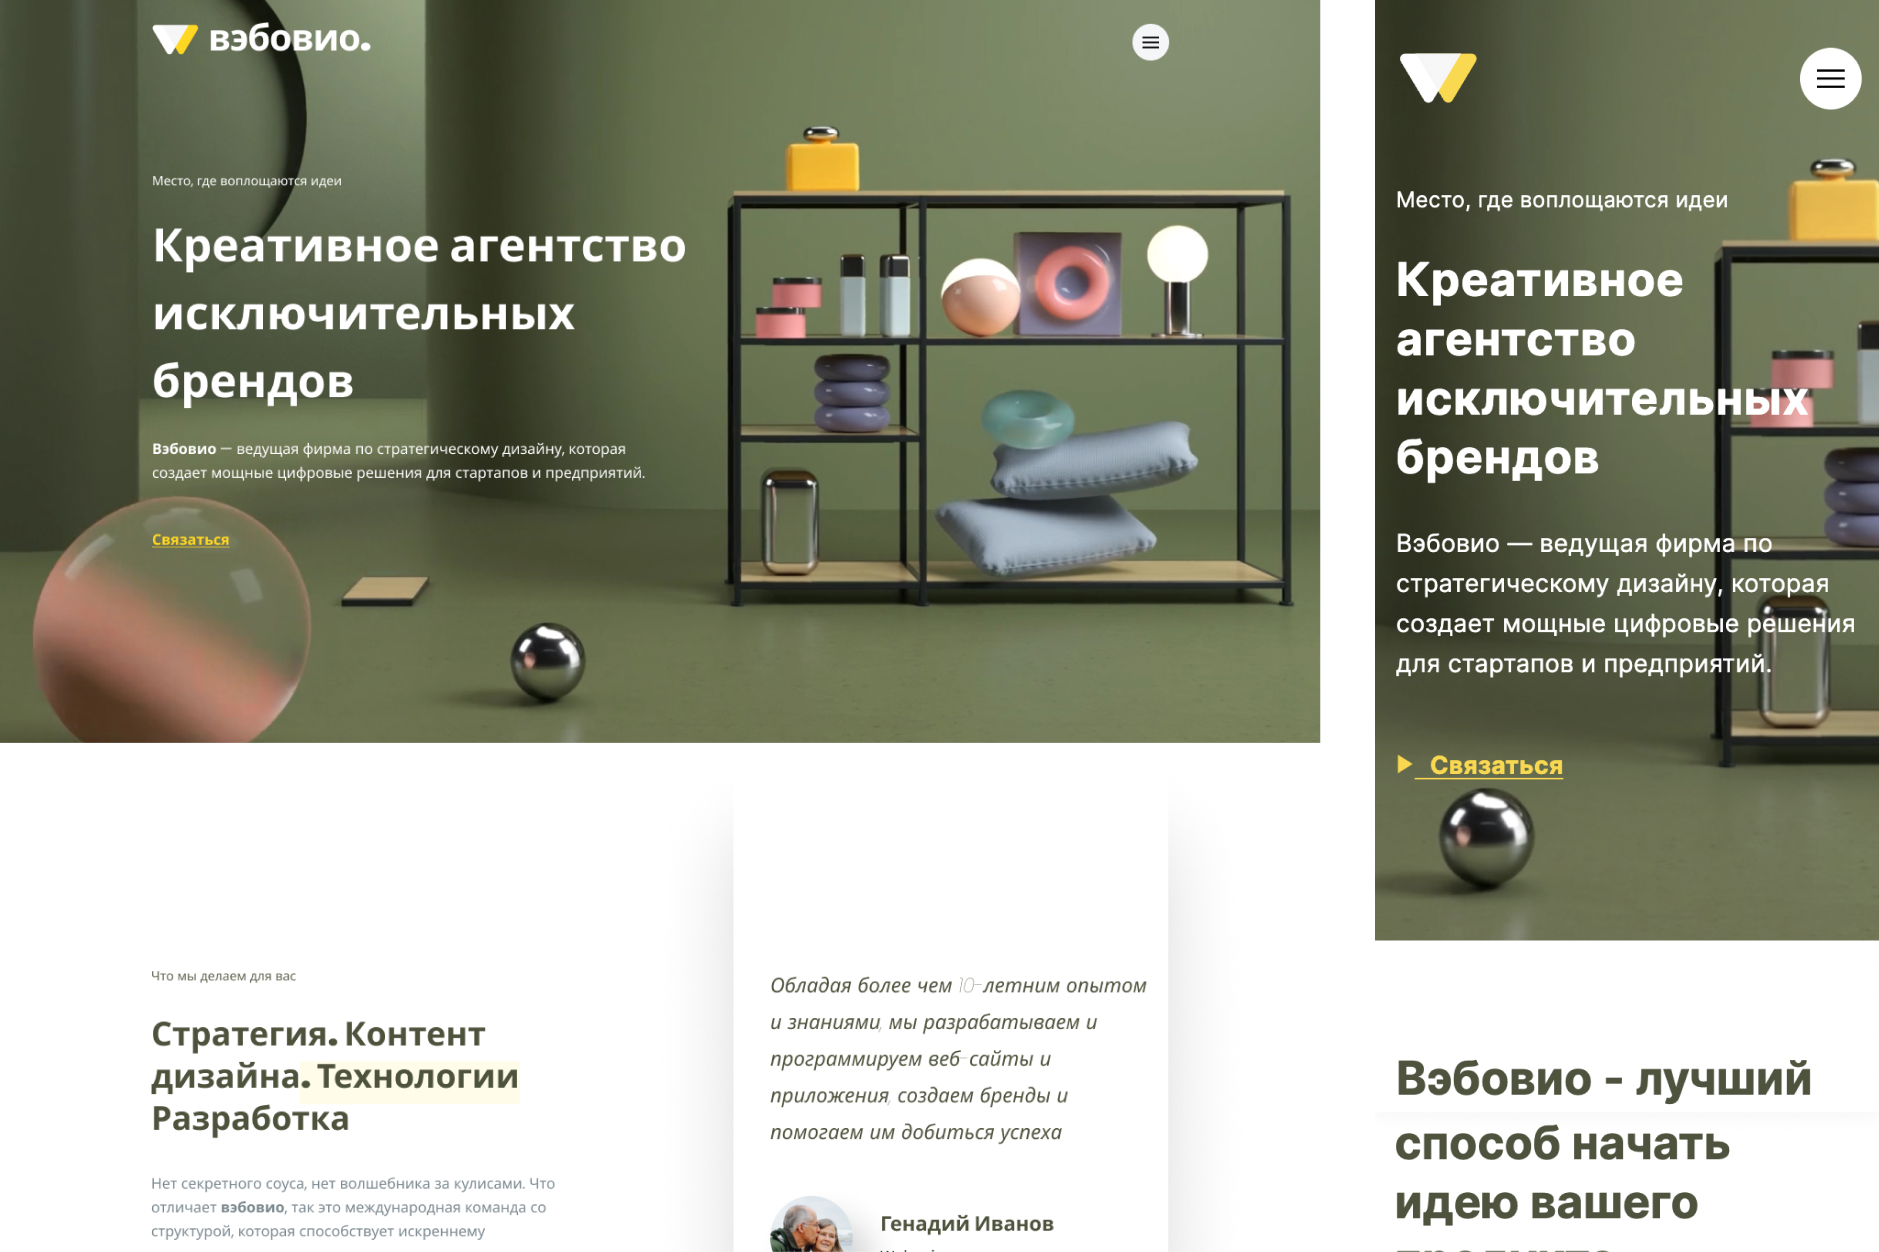
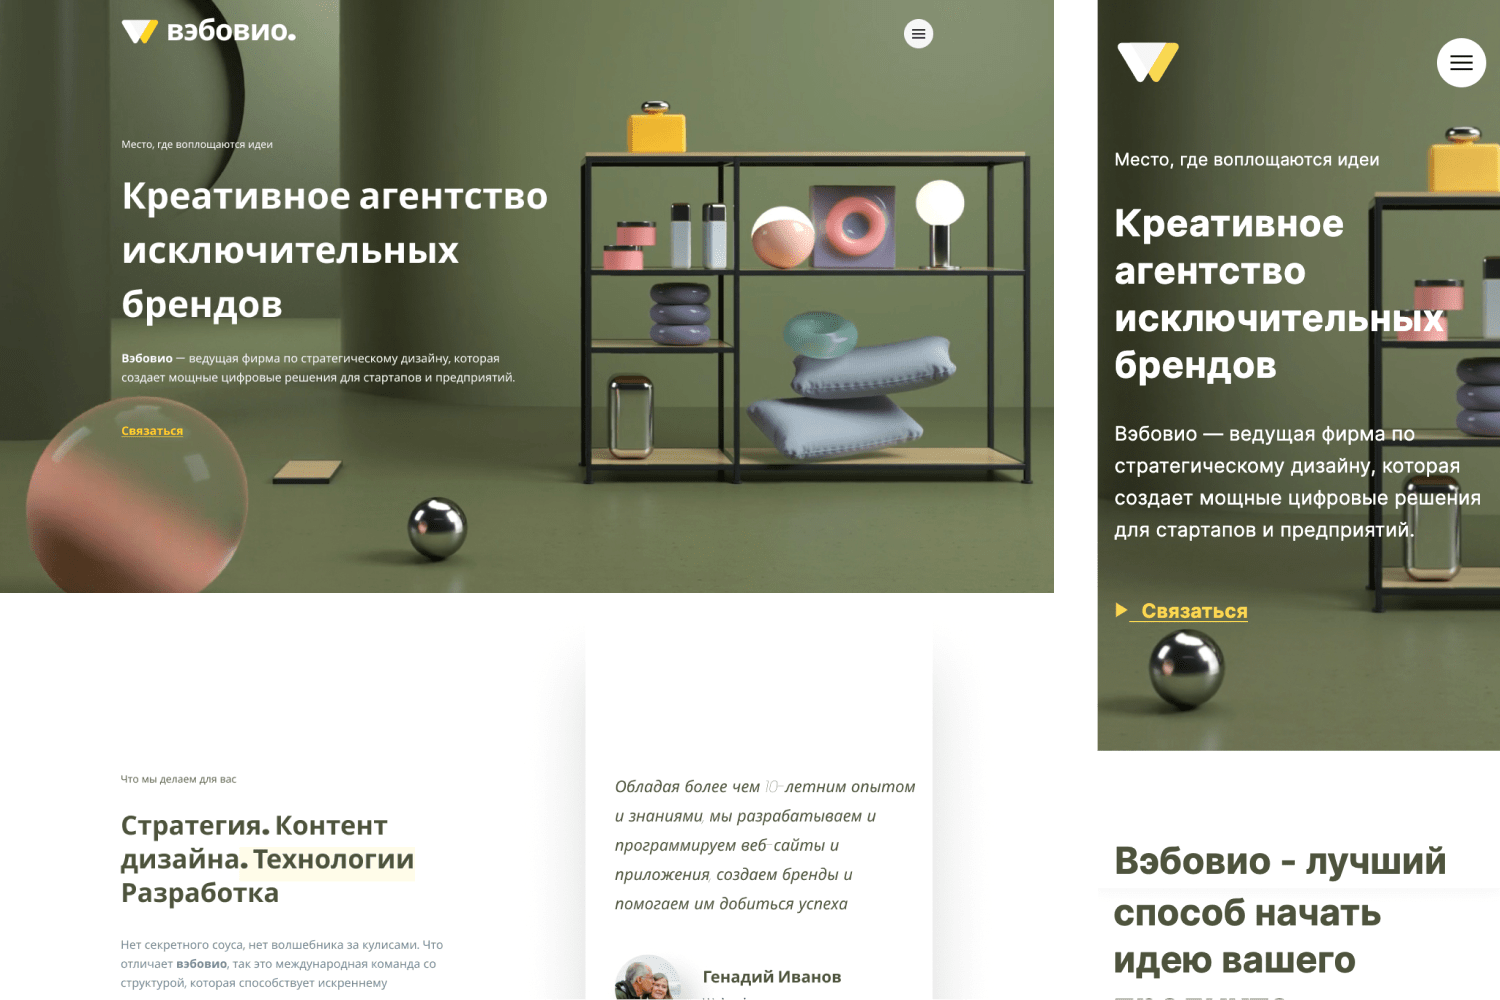
feat: add background

diff --git a/index.html b/index.html
@@ -44,9 +44,7 @@
                             <ul class="menu__list">
 
                                 <li>
-                                    <a class="menu__link" data-goto=".page" href="#">
-                                        Главная
-                                    </a>
+                                    <a class="menu__link" data-goto=".page" href="#">Главная</a>
                                 </li>
 
                                 <li>
@@ -56,7 +54,9 @@
                                 <li><a class="menu__link" data-goto=".three" href="#">Стоимость</a>
                                     <span class="menu__arrow"></span>
                                     <ul class="menu__sub-list">
-                                        <li><a class="menu__sub-link" href="#">Узнать стоимость</a></li>
+                                        <li><a class="menu__sub-link" href="https://t.me/+h35Quva-_Cw4ZDJi"
+                                                target="_blank">Узнать
+                                                стоимость</a></li>
                                     </ul>
                                 </li>
 
@@ -99,9 +99,9 @@
                                 Русский
                             </div>
 
-                            <!-- <div class="language__arrow">
+                            <div class="language__arrow">
                                 <img src="./assets/img/header/language/language_arrow.svg" alt="language_arrow">
-                            </div> -->
+                            </div>
                         </a>
 
                     </div>
@@ -150,7 +150,7 @@
                         <div class="main-block__right">
                             <a href="https://sasharozhkov.github.io/landingpage-webovio" class="right__portfolio"
                                 target="_blank">
-                                <img src="./assets/img/page/cover.png" alt="background">
+                                <img src="./assets/img/page/cover.png" alt="portfolio">
                             </a>
                         </div>
 
@@ -159,7 +159,15 @@
                 </div>
 
                 <div class="main-block__image _ibg">
-                    <img src="./assets/img/page/background.jpg" alt="background">
+                    <img src="./assets/img/page/background/background_desktop.jpg" alt="background">
+                </div>
+
+                <div class="main-block__image_tablet _ibg">
+                    <img src="./assets/img/page/background/background_tablet.jpg" alt="background">
+                </div>
+
+                <div class="main-block__image_mobile _ibg">
+                    <img src="./assets/img/page/background/background_mobile.jpg" alt="background">
                 </div>
 
             </section>

diff --git a/assets/css/style.css b/assets/css/style.css
@@ -268,7 +268,7 @@ body._lock {
   color: var(--color-0);
   font-size: 18px;
 }
-.menu__link :hover {
+.menu__link:hover {
   text-decoration: none;
   color: var(--color-7);
 }
@@ -371,6 +371,7 @@ body._touch .menu__list > li._active .menu__arrow {
 /* section page ------------------------------ */
 .page {
   flex: 1 1 auto;
+  background-color: var(--color-2);
 }
 
 .page__main-block {
@@ -489,7 +490,6 @@ body._touch .menu__list > li._active .menu__arrow {
 }
 
 /*  ------------------------------ */
-
 .footer {
 }
 
@@ -533,7 +533,7 @@ body._touch .menu__list > li._active .menu__arrow {
     margin: 0px 0px 0px 120px;
   }
   .main-block__wrapper {
-    padding: 237px 0px 145px 0px;
+    padding: 232px 0px 140px 0px;
   }
 }
 
@@ -562,10 +562,20 @@ body._touch .menu__list > li._active .menu__arrow {
   }
 }
 
+@media (min-width: 1130px) {
+  .main-block__image_tablet {
+    display: none;
+  }
+}
+
 @media (max-width: 1130px) {
-  /* .main-block__image img {
-    object-fit: contain;
-  } */
+  .main-block__image {
+    display: none;
+  }
+
+  .main-block__image_tablet {
+    display: contents;
+  }
 
   #header__container {
     min-height: 66px;
@@ -601,7 +611,7 @@ body._touch .menu__list > li._active .menu__arrow {
   }
 
   .main-block__wrapper {
-    padding: 232px 0px 100px 0px;
+    padding: 206px 0px 100px 0px;
     display: flex;
     align-items: center;
     flex-direction: column;
@@ -770,5 +780,20 @@ body._touch .menu__list > li._active .menu__arrow {
   }
   .menu__body {
     padding: 100px 16px 30px 16px;
+  }
+}
+
+@media (min-width: 400px) {
+  .main-block__image_mobile {
+    display: none;
+  }
+}
+@media (max-width: 400px) {
+  .main-block__image_tablet {
+    display: none;
+  }
+
+  .main-block__image_mobile {
+    display: contents;
   }
 }
